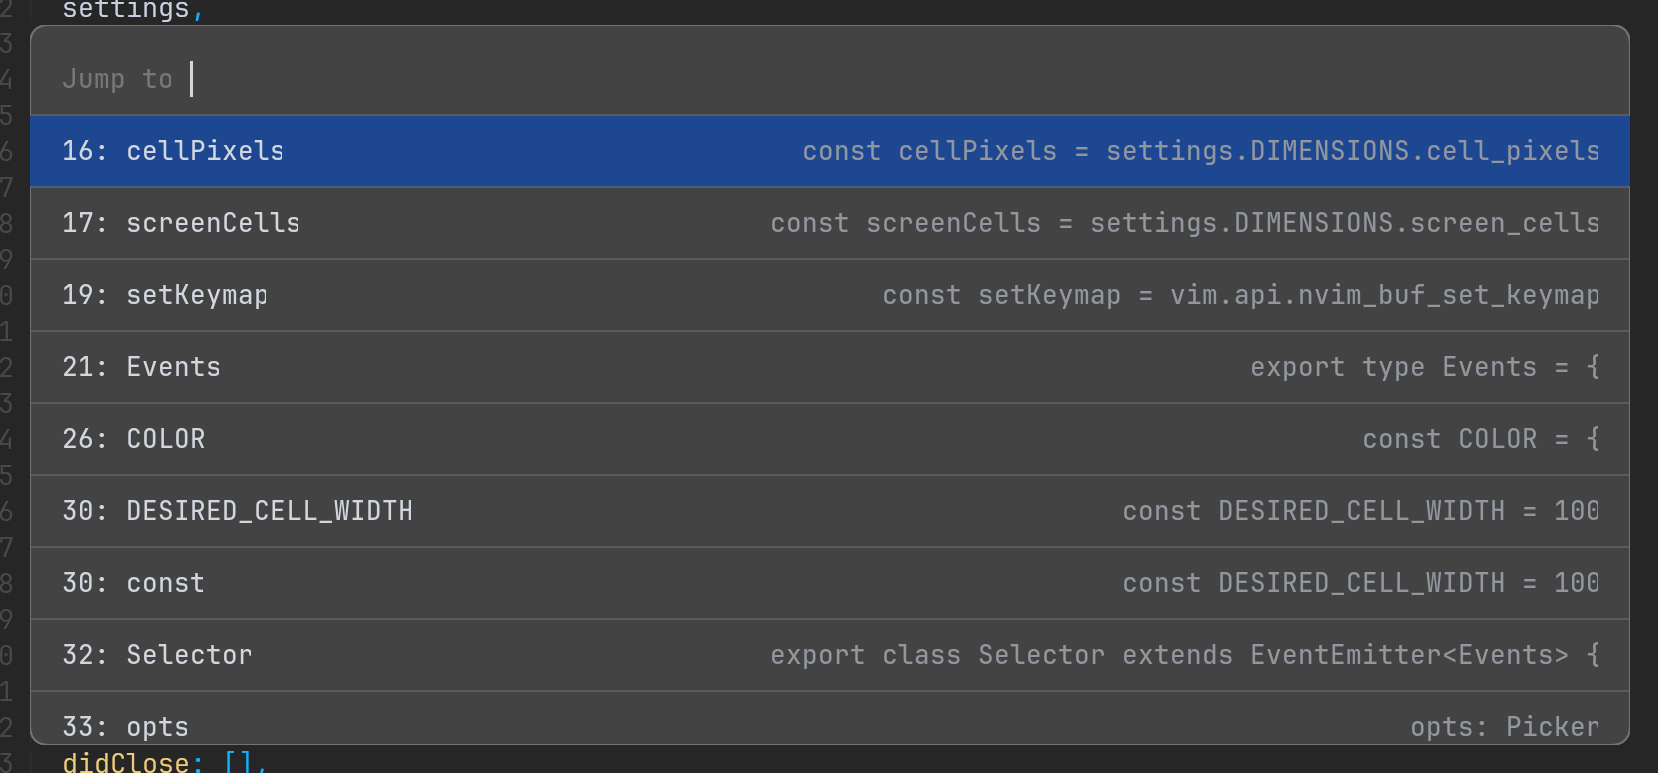
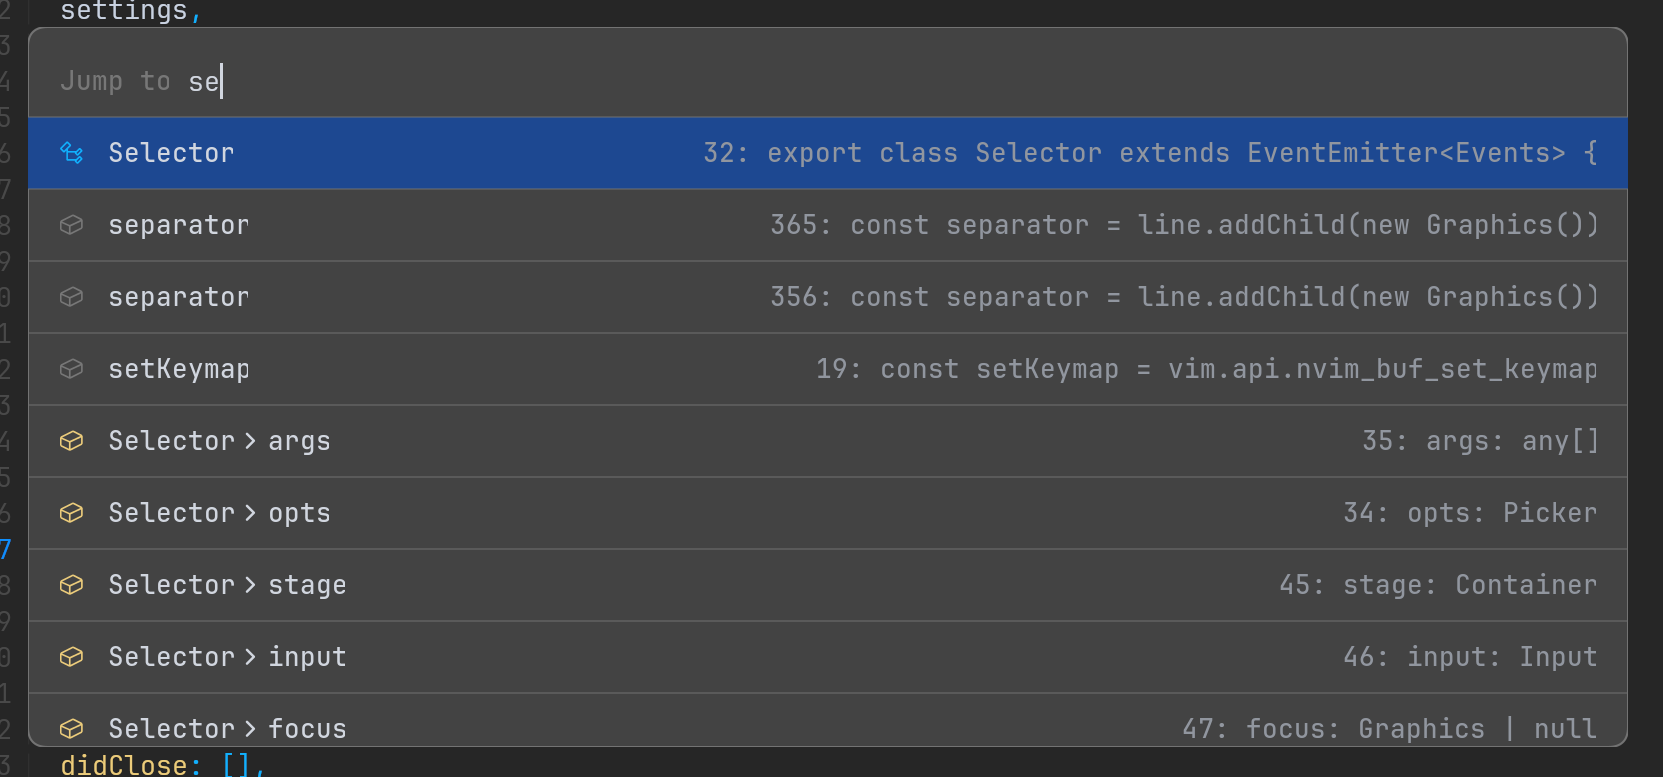
feat: ctags

diff --git a/src/pickers/ctags.ts b/src/pickers/ctags.ts
@@ -1,10 +1,30 @@
+import { editor } from 'kui'
 import type { Entry, Picker } from '../types'
+
+const HIGHLIGHT_BY_TYPE = {
+  'function': '@function',
+  'method': '@function',
+  'variable': 'identifier',
+  'property': '@property',
+  'alias': 'typedef',
+  'class': 'structure',
+} as Record<string, string | undefined>
+
+const ICON_BY_TYPE = {
+  'function': '',
+  'method': '',
+  'class': '',
+  'interface': '',
+  'enum': '',
+  'alias': '',
+  'default': '',
+} as Record<string, string | undefined>
 
 const currentFile: Picker = {
   id: 'ctags-current-file',
   prefix: 'Jump to ',
   prefixColor: 'comment',
-  hasIcon: false,
+  hasIcon: true,
   singleLine: true,
   detailsAlign: 'right',
   entries: function(this: void) {
@@ -13,25 +33,45 @@ const currentFile: Picker = {
       return []
     }
 
-    const lines = vim.fn.system(`ctags --excmd=combine -f- ${file}`).trim().split('\n')
+    const lines = vim.fn.system(`ctags '--fields=*' -f- ${file}`).trim().split('\n')
+    const colors = {} as Record<string, number>
+    function getColor(name: string = 'comment') {
+      colors[name] ??= editor.getHighlight(name).foreground ?? 0xffffff
+      return colors[name]
+    }
+    function getIcon(type: string) {
+      return ICON_BY_TYPE[type] ?? ICON_BY_TYPE['default']
+    }
 
     const entries = lines.map(line => {
-      const [symbol, _file, address, _type] = line.split('\t')
-      const addressParts = address.split(';')
-      const lineNumber = parseInt(addressParts[0])
-      const rest = addressParts.slice(1).join(';')
-      const pattern = rest.slice(2).slice(0, -4)
+      const parts = line.split('\t')
+      const [name, _file, address] = parts
+      const pattern = address.slice(2).slice(0, -4)
       const code = pattern.trim()
       const columnNumber = pattern.length - pattern.trimStart().length
+      const fields = parts.slice(3).reduce((acc, cur) => {
+        const [key] = cur.split(':')
+        acc[key] = cur.split(':').slice(1).join(':')
+        return acc
+      }, {} as Record<string, string>)
 
-      const text = `${lineNumber}: ${symbol}`
+      let scope = undefined as string | undefined
+      if (fields.scope) {
+        scope = fields.scope.split(':')[1].trim()
+      }
+
+      const symbol = scope ? (scope + ' ' + name) : name
+      const text = symbol
+      const details = `${fields.line}: ${code}`
       return {
+        icon: getIcon(fields.kind),
+        iconColor: getColor(HIGHLIGHT_BY_TYPE[fields.kind as string]),
         label: text,
-        details: code,
+        details: details,
         text: text,
         value: text,
         data: {
-          lineNumber,
+          lineNumber: parseInt(fields.line),
           columnNumber,
         },
       }
@@ -41,6 +81,7 @@ const currentFile: Picker = {
   },
   onAccept: (entry: Entry) => {
     vim.api.nvim_win_set_cursor(0, [entry.data.lineNumber, entry.data.columnNumber])
+    vim.cmd('normal! zz')
   },
 }
 
